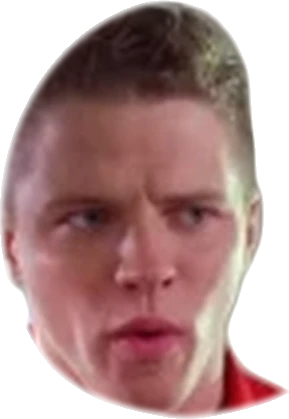
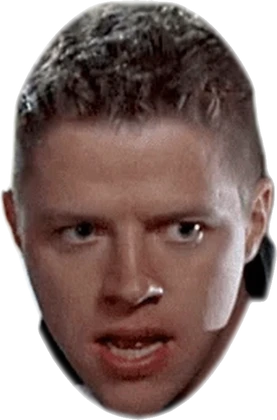
v3.61 : la nouvelle tête est celle de Biff (Skinhead reprend la sienne)
Claude-Session: https://claude.ai/code/session_01WYc8bcxVUTnPR8YQxCHawi

diff --git a/public/index.html b/public/index.html
@@ -2811,7 +2811,7 @@
 
   /* ===== Version de l'appli et nouveautés (la plus récente en premier) ===== */
   const VERSIONS = [
-    ["3.61", "12 octobre 2026", ["Hill Valley : nouvelle tête pour Skinhead (la bande à Biff)"]],
+    ["3.61", "12 octobre 2026", ["Hill Valley : nouvelle tête pour Biff"]],
     ["3.60", "12 octobre 2026", ["Hill Valley : nouvelle tête pour 3-D, avec ses lunettes 3D en carton (verre bleu, verre rouge)"]],
     ["3.59", "12 octobre 2026", ["Hill Valley : nouvelle tête pour Match (la bande à Biff)"]],
     ["3.58", "12 octobre 2026", ["Hill Valley : nouvelle tête pour Marty"]],

diff --git a/public/sw.js b/public/sw.js
@@ -1,7 +1,7 @@
 // Service worker : permet d'installer l'appli (Android, iPhone, PC) et de l'ouvrir sans réseau.
 // Les pages sont servies « réseau d'abord » (toujours la dernière version), les images « cache d'abord ».
 // Le courrier et le registre (/api/) ne sont jamais mis en cache.
-const CACHE = "caserne-nf-v179";
+const CACHE = "caserne-nf-v180";
 const SHELL = ["/", "/images/garde.jpg", "/images/pierre.jpg", "/images/escaliers/brique.jpg", "/manifest.webmanifest", "/icons/icon-192.png"];
 
 self.addEventListener("install", e => {
